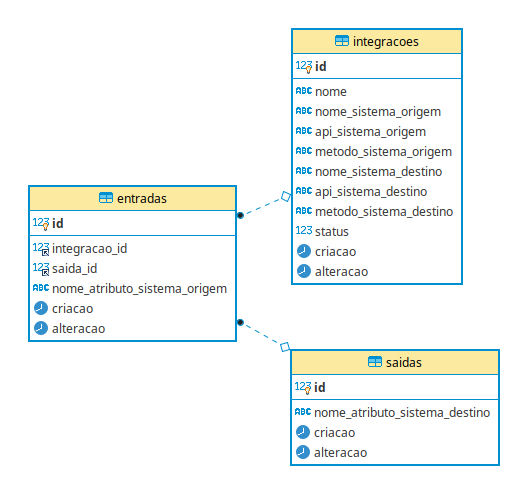
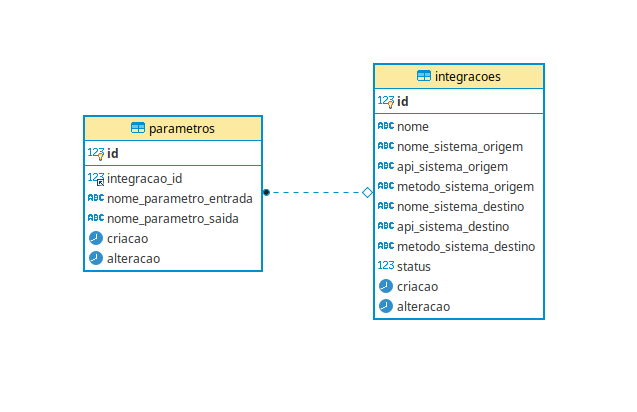
Alterando estratégia de gravação de parametros no banco de dados

Changed region(s): [[0.5142, 0.0583, 0.9679, 0.932], [0.0302, 0.2621, 0.4839, 0.699]]

diff --git a/template/integracao/listar.html b/template/integracao/listar.html
@@ -1,0 +1,68 @@
+{{- define "listarIntegracoesPage" -}}
+<!DOCTYPE html>
+<html lang="pt-br">
+
+<head>
+    <meta charset="UTF-8">
+    <meta name="viewport" content="width=device-width, initial-scale=1, shrink-to-fit=no">
+    <title>{{.NomeSistema}} {{.VersaoSistema}}</title>
+
+    <link rel="stylesheet" href="https://stackpath.bootstrapcdn.com/bootstrap/4.5.0/css/bootstrap.min.css"
+        integrity="sha384-9aIt2nRpC12Uk9gS9baDl411NQApFmC26EwAOH8WgZl5MYYxFfc+NcPb1dKGj7Sk" crossorigin="anonymous">
+</head>
+
+<body class="bg-dark">
+    <div class="container bg-white">
+        {{- template "menu" . -}}
+        <div class="row">
+            <div class="col-md-12">
+                <div class="alert alert-info" role="alert">
+                    Um integrador de sistemas é uma ferramenta especializada em reunir subsistemas de componentes em um
+                    todo e garantir que esses subsistemas funcionem juntos, uma prática conhecida como integração de
+                    sistemas. Eles também resolvem problemas de automação.
+                </div>
+                {{- template "alert" . -}}
+            </div>
+
+            <div class="col-md-12">
+                <h4>Integrações</h4>
+                
+                <table class="table table-sm table-bordered table-hover">
+                    <thead>
+                        <tr class="bg-dark text-white">
+                            <th>#</th>
+                            <th>Nome</th>
+                            <th>Sistema origem</th>
+                            <th>Sistema destino</th>
+                            <th>Status</th>
+                            <th>Ações</th>
+                        </tr>
+                    </thead>
+                    <tbody>
+                        {{- range .ListaIntegracoes -}}
+                        <tr {{if .Status }} class="table-primary" {{else}} class="table-warning" {{end}}>
+                            <td>{{.ID}}</td>
+                            <td>{{.Nome}}</td>
+                            <td>{{.NomeSistemaOrigem}}</td>
+                            <td>{{.NomeSistemaDestino}}</td>
+                            <td>{{if .Status }} Ativo {{else}} Inativo {{end}}</td>
+                            <td>
+                                <div class="btn-group" role="group" aria-label="Button group with nested dropdown">
+                                    {{- template "integracaoTabelaAcao" . -}}
+                                </div>
+                            </td>
+                        </tr>
+                        {{- template "modalExclusao" . -}}
+                        {{- end -}}
+                    </tbody>
+                </table>                
+            </div>
+        </div>
+
+        {{- template "footer" . -}}
+    </div>
+    {{- template "javascript" . -}}
+</body>
+
+</html>
+{{end}}

diff --git a/template/layout/integracoes-tabela-acao.html b/template/layout/integracoes-tabela-acao.html
@@ -6,7 +6,7 @@
         Ações
     </button>
     <div class="dropdown-menu" aria-labelledby="btnGroupDrop1">
-        <a class="dropdown-item" href="/editar/{{.ID}}"
+        <a class="dropdown-item" href="/integracao/editar/{{.ID}}"
             title="Editar integração #{{.ID}}">
             <svg width="1em" height="1em" viewBox="0 0 16 16" class="bi bi-pen"
                 fill="currentColor" xmlns="http://www.w3.org/2000/svg">
@@ -19,7 +19,7 @@
             </svg>
             Editar integração
         </a>
-        <a class="dropdown-item" href="/editar-atributos/{{.ID}}"
+        <a class="dropdown-item" href="/parametros/integracao/{{.ID}}"
             title="Editar atributos da integração #{{.ID}}">
             <svg width="1em" height="1em" viewBox="0 0 16 16" class="bi bi-pen"
                 fill="currentColor" xmlns="http://www.w3.org/2000/svg">
@@ -30,9 +30,9 @@
                 <path
                     d="M13.293 1.207a1 1 0 0 1 1.414 0l.03.03a1 1 0 0 1 .03 1.383L13.5 4 12 2.5l1.293-1.293z" />
             </svg>
-            Editar Atributos
+            gerir parametros
         </a>                                                
-        <a class="dropdown-item" href="/excluir/{{.ID}}"
+        <a class="dropdown-item" href="/integracao/excluir/{{.ID}}"
             title="Excluir integração #{{.ID}}" data-toggle="modal"
             data-target="#exclusaoModal{{.ID}}">
             <svg width="1em" height="1em" viewBox="0 0 16 16"
@@ -41,7 +41,7 @@
                 <path fill-rule="evenodd"
                     d="M16 8A8 8 0 1 1 0 8a8 8 0 0 1 16 0zM4 7.5a.5.5 0 0 0 0 1h8a.5.5 0 0 0 0-1H4z" />
             </svg>
-            Excluir
+            Excluir integração
         </a>
     </div>
 </div>

diff --git a/template/layout/modal-exclusao.html b/template/layout/modal-exclusao.html
@@ -16,7 +16,7 @@
             <div class="modal-footer">
                 <button type="button" class="btn btn-secondary"
                     data-dismiss="modal">Cancelar</button>
-                <form method="post" action="/excluir-integracao" >    
+                <form method="post" action="/integracao/excluir" >    
                     <input type="hidden" name="id" value="{{.ID}}" />
                     <button type="submit" class="btn btn-primary">Excluir</button>
                 </form>

diff --git a/models/parametroModel.go b/models/parametroModel.go
@@ -4,30 +4,28 @@ import (
 	"github.com/tayron/integra-sistema/database"
 )
 
-type Entrada struct {
-	ID                        int
-	IntegracaoID              int64
-	SaidaID                   int64
-	NomeAtributoSistemaOrigem string
+type Parametro struct {
+	ID                   int
+	IntegracaoID         int64
+	NomeParametroEntrada string
+	NomeParametroSaida   string
 }
 
-// CriarTabelaEntrada -
-func CriarTabelaEntrada() {
+// CriarTabelaParametro -
+func CriarTabelaParametro() {
 	db := database.ObterConexao()
 	defer db.Close()
 
-	var sql string = `create table if not exists entradas (
+	var sql string = `create table if not exists parametros (
 		id integer auto_increment,
 		integracao_id integer,
-		saida_id integer,
-		nome_atributo_sistema_origem varchar(255),
+		nome_parametro_entrada varchar(255),
+		nome_parametro_saida varchar(255),		
 		criacao datetime DEFAULT CURRENT_TIMESTAMP,	
 		alteracao datetime ON UPDATE CURRENT_TIMESTAMP,
 		PRIMARY KEY (id),
-		FOREIGN KEY (integracao_id) REFERENCES integracoes(id),
-		FOREIGN KEY (saida_id) REFERENCES saidas(id)
+		FOREIGN KEY (integracao_id) REFERENCES integracoes(id)
 	)`
-
 	_, err := db.Exec(sql)
 	if err != nil {
 		panic(err)
@@ -35,20 +33,20 @@ func CriarTabelaEntrada() {
 }
 
 // Gravar -
-func (e Entrada) Gravar() bool {
+func (p Parametro) Gravar() bool {
 	db := database.ObterConexao()
 	defer db.Close()
 
-	var sql string = `insert into entradas 
-	(nome_atributo_sistema_origem, integracao_id, saida_id) 
+	var sql string = `insert into parametros 
+	(nome_parametro_entrada, nome_parametro_saida, integracao_id) 
 	values (?, ?, ?)`
 
 	stmt, _ := db.Prepare(sql)
 
 	resultado, err := stmt.Exec(
-		e.NomeAtributoSistemaOrigem,
-		e.IntegracaoID,
-		e.SaidaID)
+		p.NomeParametroEntrada,
+		p.NomeParametroSaida,
+		p.IntegracaoID)
 
 	numeroRegistrosAlterados, err := resultado.RowsAffected()
 
@@ -64,11 +62,11 @@ func (e Entrada) Gravar() bool {
 }
 
 // Excluir -
-func (e Entrada) Excluir() bool {
+func (p Parametro) Excluir() bool {
 	db := database.ObterConexao()
 	defer db.Close()
 
-	var sql string = `DELETE FROM entradas WHERE id = ?`
+	var sql string = `DELETE FROM parametros WHERE id = ?`
 
 	stmt, err := db.Prepare(sql)
 
@@ -76,7 +74,7 @@ func (e Entrada) Excluir() bool {
 		panic(err)
 	}
 
-	resultado, err := stmt.Exec(e.ID)
+	resultado, err := stmt.Exec(p.ID)
 
 	if err != nil {
 		panic(err)

diff --git a/handlers/parametrosHandler.go b/handlers/parametrosHandler.go
@@ -11,8 +11,8 @@ import (
 	"github.com/tayron/integra-sistema/models"
 )
 
-// EditarAtributosHandler -
-func EditarAtributosHandler(w http.ResponseWriter, r *http.Request) {
+// GerirParametrosHandler -
+func GerirParametrosHandler(w http.ResponseWriter, r *http.Request) {
 
 	parametrosURL := mux.Vars(r)
 	idIntegracao, _ := strconv.ParseInt(parametrosURL["id"], 10, 64)
@@ -42,26 +42,20 @@ func EditarAtributosHandler(w http.ResponseWriter, r *http.Request) {
 	}
 }
 
-// CriarAtributoHandler -
-func CriarAtributoHandler(w http.ResponseWriter, r *http.Request) {
+// CriarParametroHandler -
+func CriarParametroHandler(w http.ResponseWriter, r *http.Request) {
 
 	integracaoID, _ := strconv.ParseInt(r.FormValue("integracao_id"), 10, 64)
-	nomeAtributoSistemaOrigem := r.FormValue("nome_sistema_origem")
-	nomeAtributoSistemaDestino := r.FormValue("nome_sistema_destino")
+	nomeParametroEntrada := r.FormValue("nome_parametro_entrada")
+	nomeParametroSaida := r.FormValue("nome_parametro_saida")
 
-	saida := models.Saida{
-		NomeAtributoSistemaDestino: nomeAtributoSistemaDestino,
+	parametro := models.Parametro{
+		IntegracaoID:         integracaoID,
+		NomeParametroEntrada: nomeParametroEntrada,
+		NomeParametroSaida:   nomeParametroSaida,
 	}
 
-	saidaID := saida.Gravar()
-
-	entrada := models.Entrada{
-		IntegracaoID:              integracaoID,
-		SaidaID:                   saidaID,
-		NomeAtributoSistemaOrigem: nomeAtributoSistemaOrigem,
-	}
-
-	retornoGravacao := entrada.Gravar()
+	retornoGravacao := parametro.Gravar()
 
 	var mensagem string
 	var sucesso bool

diff --git a/routes/rotas.go b/routes/rotas.go
@@ -13,10 +13,10 @@ func CarregarRotas() {
 	r.HandleFunc("/", handlers.InicioHandler).Methods("GET")
 	r.HandleFunc("/", handlers.CriarIntegracaoHandler).Methods("POST")
 	r.HandleFunc("/integracoes", handlers.ListarIntegracoesHandler).Methods("GET")
-	r.HandleFunc("/editar/{id:[0-9]+}", handlers.EditarIntegracaoHandler).Methods("GET")
-	r.HandleFunc("/editar/{id:[0-9]+}", handlers.GravarIntegracaoHandler).Methods("POST")
-	r.HandleFunc("/excluir-integracao", handlers.ExcluirIntegracaoHandler).Methods("POST")
-	r.HandleFunc("/editar-atributos/{id:[0-9]+}", handlers.EditarAtributosHandler).Methods("GET")
-	r.HandleFunc("/cadastrar-atributos", handlers.CriarAtributoHandler).Methods("POST")
+	r.HandleFunc("/integracao/editar/{id:[0-9]+}", handlers.EditarIntegracaoHandler).Methods("GET")
+	r.HandleFunc("/integracao/editar/{id:[0-9]+}", handlers.GravarIntegracaoHandler).Methods("POST")
+	r.HandleFunc("/integracao/excluir", handlers.ExcluirIntegracaoHandler).Methods("POST")
+	r.HandleFunc("/parametros/integracao/{id:[0-9]+}", handlers.GerirParametrosHandler).Methods("GET")
+	r.HandleFunc("/parametro/cadastrar", handlers.CriarParametroHandler).Methods("POST")
 	http.Handle("/", r)
 }

diff --git a/main.go b/main.go
@@ -10,8 +10,7 @@ import (
 func init() {
 	godotenv.Load()
 	models.CriarTabelaIntegracao()
-	models.CriarTabelaSaida()
-	models.CriarTabelaEntrada()
+	models.CriarTabelaParametro()
 }
 
 func main() {
